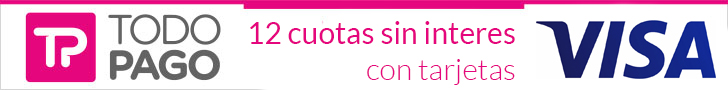
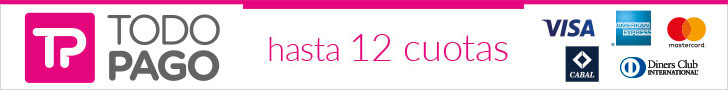
commit

diff --git a/index.html b/index.html
@@ -205,7 +205,7 @@
               <span class="card-title"><b>CUOTAS SIN INTERÉS</b></span>
             </div>
             <div class="card-content">
-              <p>¡Aboná tu pedido en 12 cuotas sin interés con tarjetas VISA! ¿Tenes otra tarjeta? Mirá estas promociones:</p>
+              <p>¡Aboná tu pedido en hasta 12 cuotas sin interés! Mirá todas las promociones promociones:</p>
             </div>
             <ul class="collection no-margin">
       <li class="collection-item center-align"><h4><a href="promociones-bancarias.html">VER MÁS</a></h4></li></ul>
